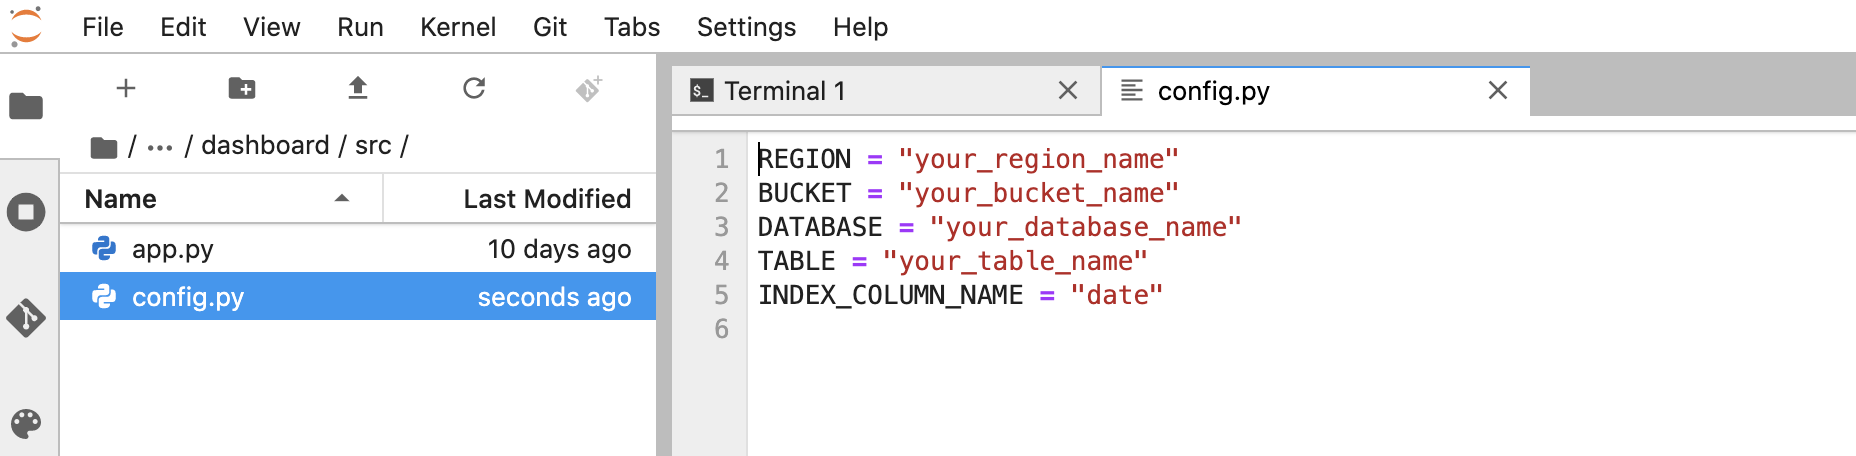
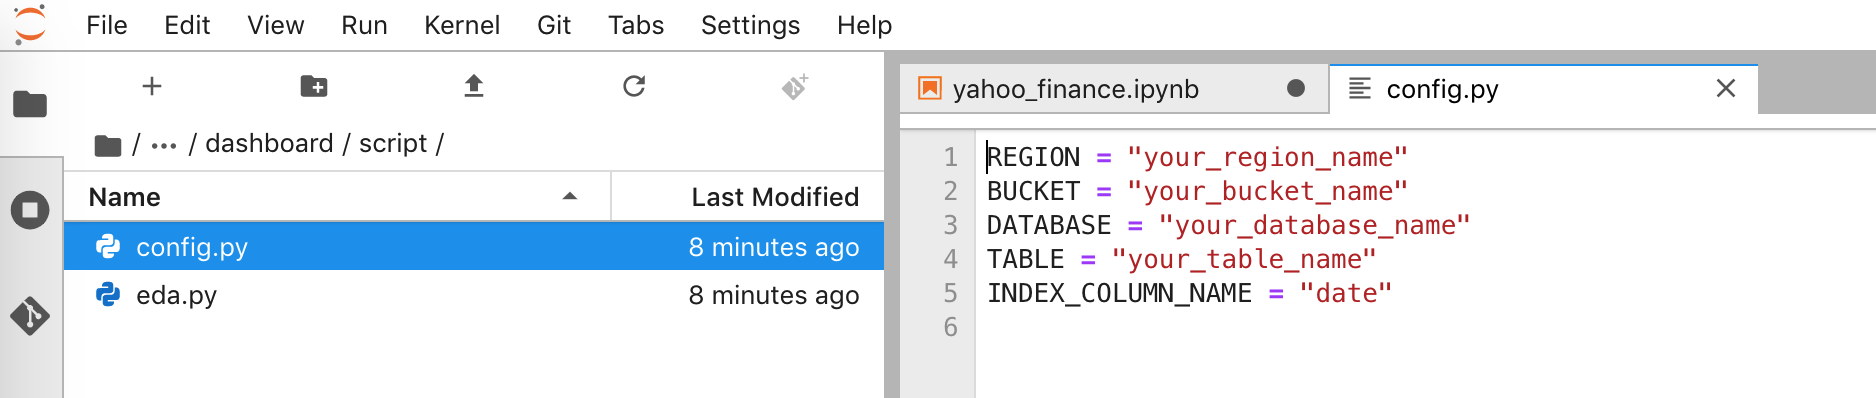
📝 doc update

diff --git a/README.md b/README.md
@@ -162,12 +162,11 @@ ParameterKey=CognitoAuthenticationSampleUserEmail,ParameterValue=${COGNITO_USER}
 
 Note the `ParameterKey` and `ParameterValue` provided to the `create-stack` command at the end point to the repository with the Streamlit frontend that is cloned directly into the SageMaker Notebook. In this case, it is https://github.com/aws-samples/streamlit-application-deployment-on-aws. The second parameter is the Cognito login you will need to get inside the dashboard once it is stood up.
 
-The CloudFormation should take some time to standup all the resources.
-Once completed you can go into the AWS console for CloudFormation and confirm that all resources are created.
-The console should have all stacks and nested stacks in the green:
+The CloudFormation should take some time to standup all the resources. Once completed you can go into the AWS console for CloudFormation and confirm that all resources are created. The console should have all stacks and nested stacks in the green:
+
 ![all_green](images/AllGreenCFN.png)
 
-At the end of the bash script, it takes the environment variables set for the stack resource names and writes them to two key files. The first of these is `streamlit-package/dashboard/src/config.py`. This file is used for configuring the frontend deployment of the dashboard once it is inside of the SageMaker notebook. For reference, the code below is what it looks like before `standup.sh`. Note that after the script runs, these will be updated based on how the stack environment variable names were set.
+At the end of the bash script, it takes the environment variables set for the stack resource names and writes them to two key files. The first of these is `streamlit-package/dashboard/script/config.py`. This file is used for configuring the frontend deployment of the dashboard once it is inside of the SageMaker notebook. For reference, the code below is what it looks like before `standup.sh`. Note that after the script runs, these will be updated based on how the stack environment variable names were set.
 
 ```python
 REGION = "your_region_name"
@@ -189,7 +188,8 @@ Go over to Amazon Web Services console and confirm that the notebook instance is
 
 Go into the notebook via Jupyter and proceed to folder `/deployment/sagemaker-dashboards-for-ml/examples/yahoo_finance`.
 
-Next, go to the file `config.py` file under `dashboard/src`.
+Next, go to the file `config.py` file under `dashboard/script`.
+
 ![config_file](images/ConfigFileLocation.png)
 
 Update the Notebook’s `config.py` parameter names with the `config.py` names that populated in your local directory after you ran the `standup.sh` script. Save the changes to the config file.
@@ -231,7 +231,7 @@ print(f"DASHBOARD_URL: https://{DASHBOARD_URL}")
 
 Please note that, you will receive a warning from your browser when accessing the dashboard if you didn't provide a custom SSL certificate when launching the AWS CloudFormation Stack. A self-signed certificate is created and used as a backup but this is certainly not recommended for production use cases. You should obtain an SSL Certificate that has been validated by a certificate authority, import it into [AWS Certificate Manager](https://aws.amazon.com/certificate-manager/) and reference this when launching the AWS CloudFormation Stack. Should you wish to continue with the self-signed certificate (for development purposes), you should be able to proceed past the browser warning page. With Chrome, you will see a `Your connection is not private` error message (`NET::ERR_CERT_AUTHORITY_INVALID`), but by clicking on "Advanced" you should then see a link to proceed.
 
-Once you have loaded the URL website, you will be greeted with a login screen for Amazon Cognito. Enter the User Email credentials you set within the `standup.sh` script.
+Once you have loaded the URL website, you will be greeted with a login screen for Amazon Cognito. Enter the User Email credentials you set within the `standup.sh` script. Note that you can always go to the Cognito console to manage the "User Pool" should there be any difficulty to login in.
 
 ![cognito](images/CognitoMenu.png)
 
